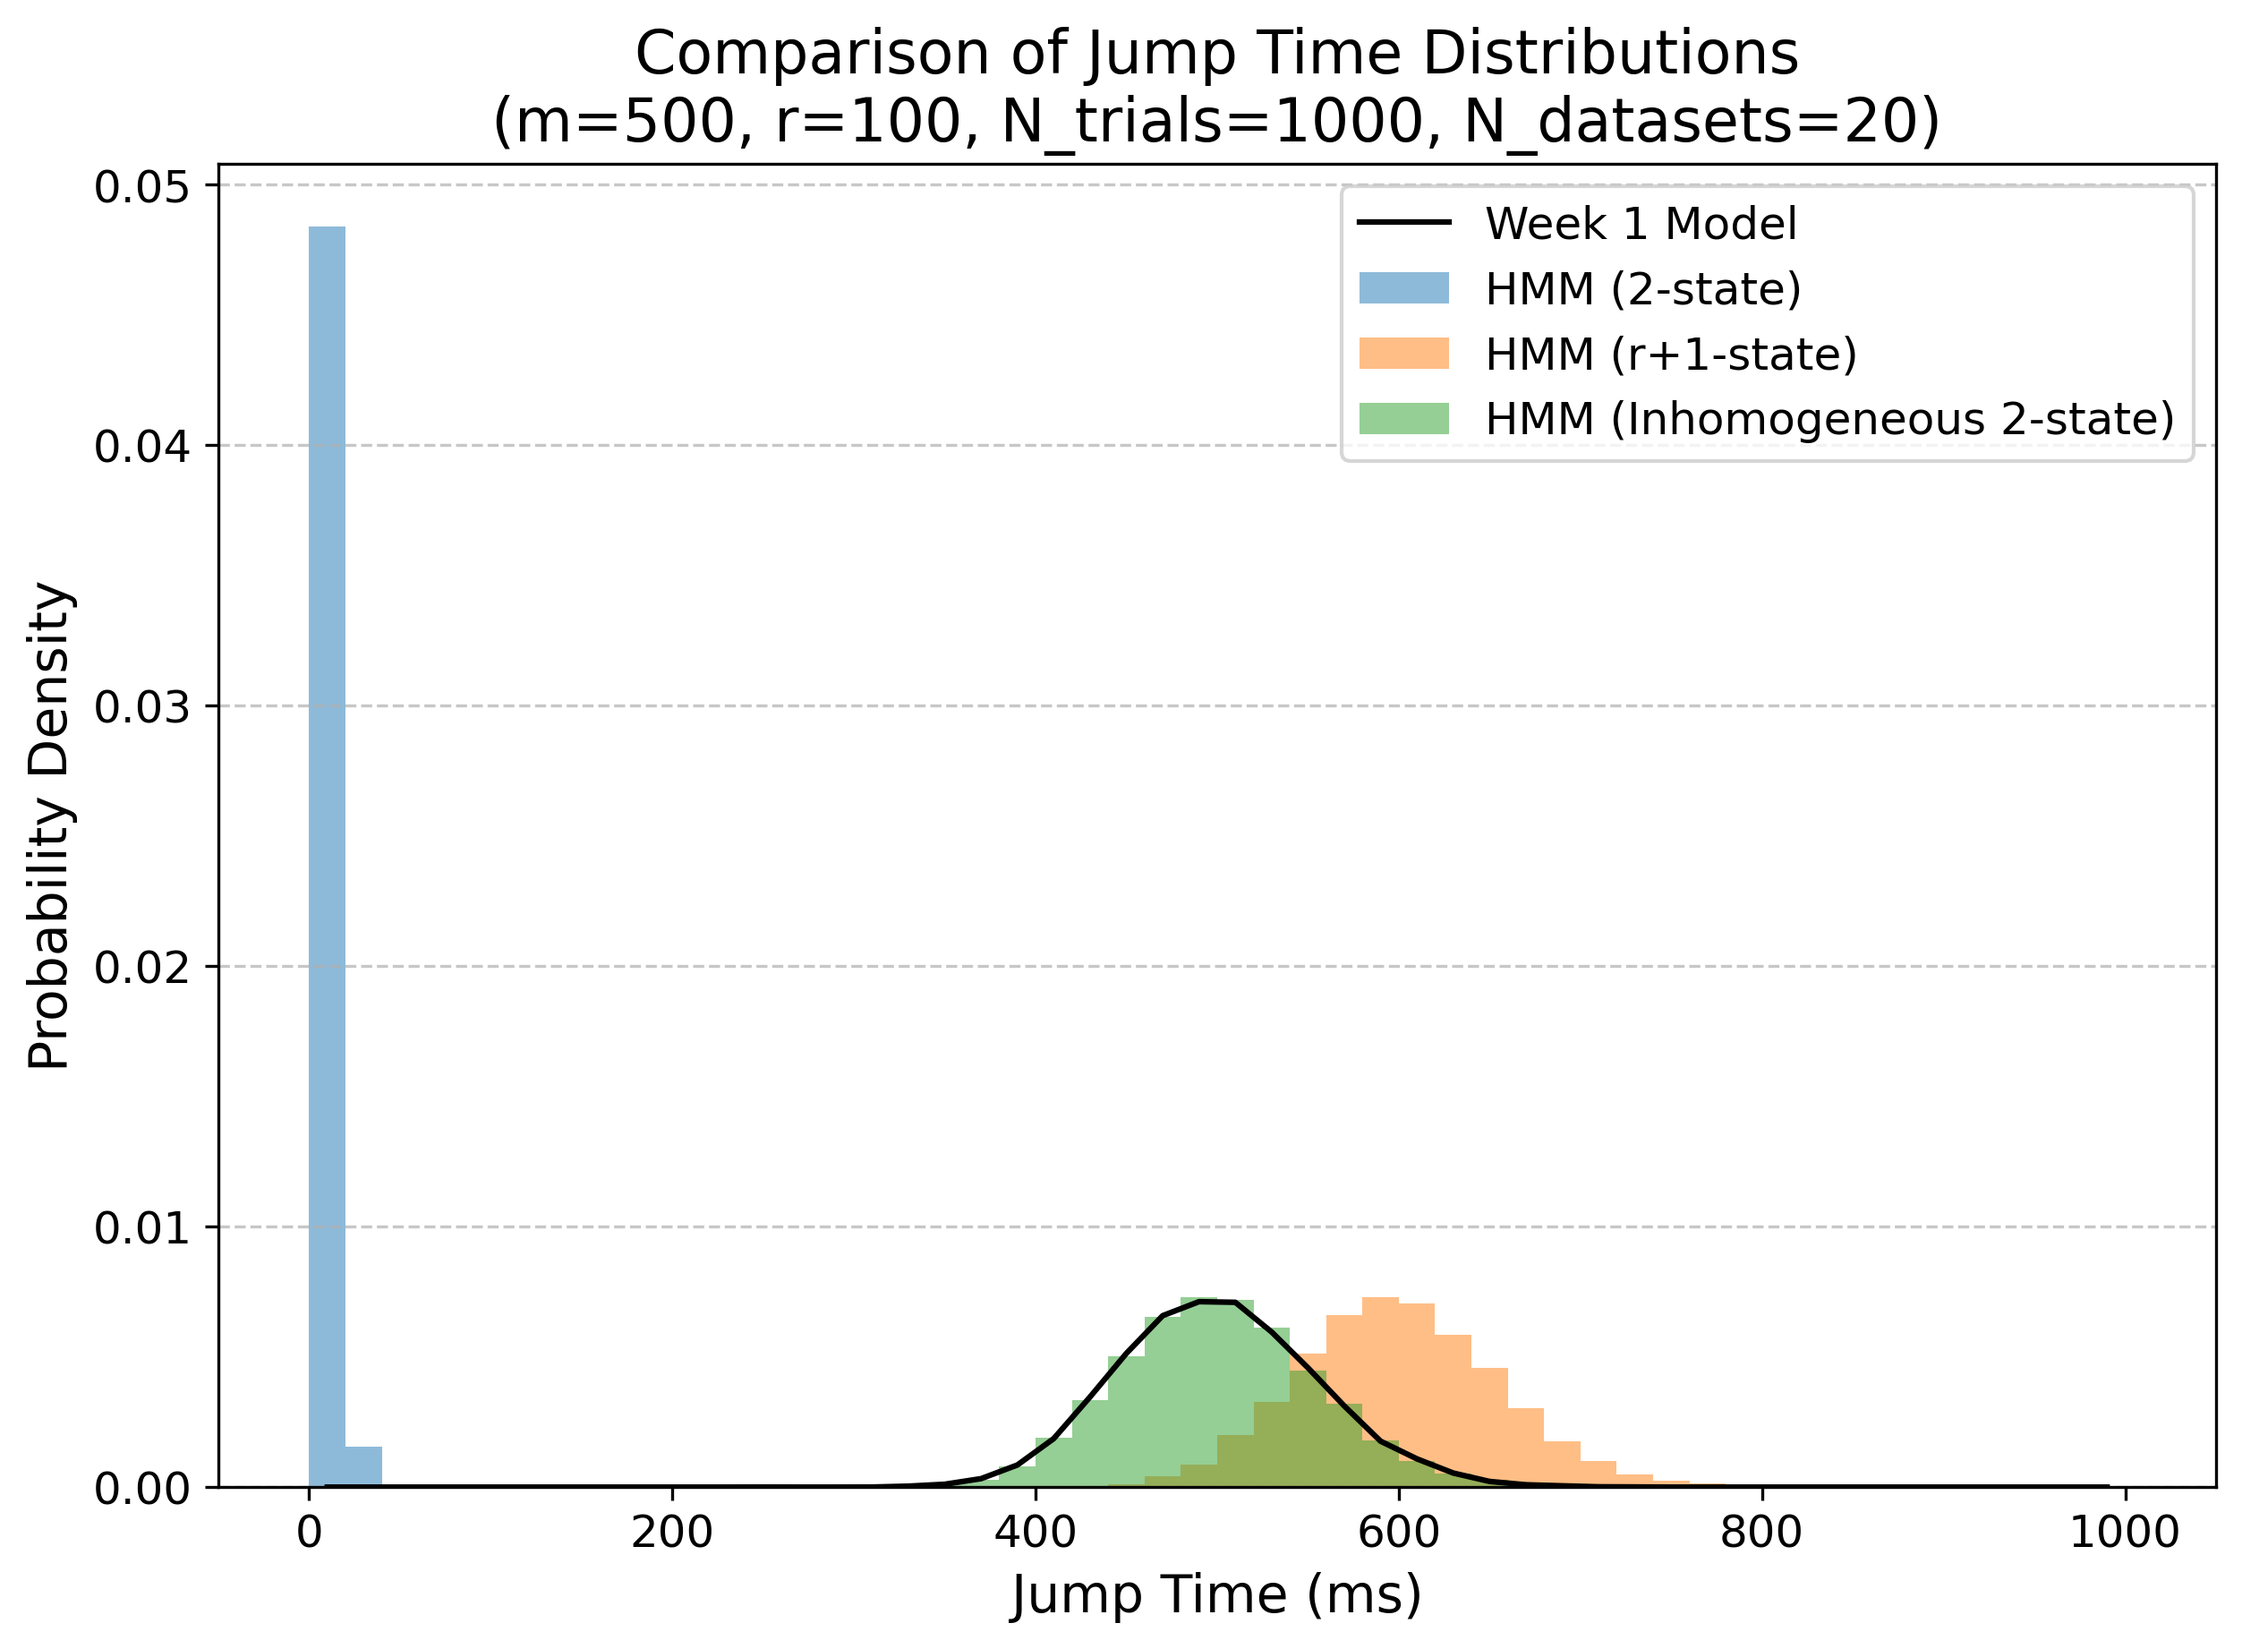
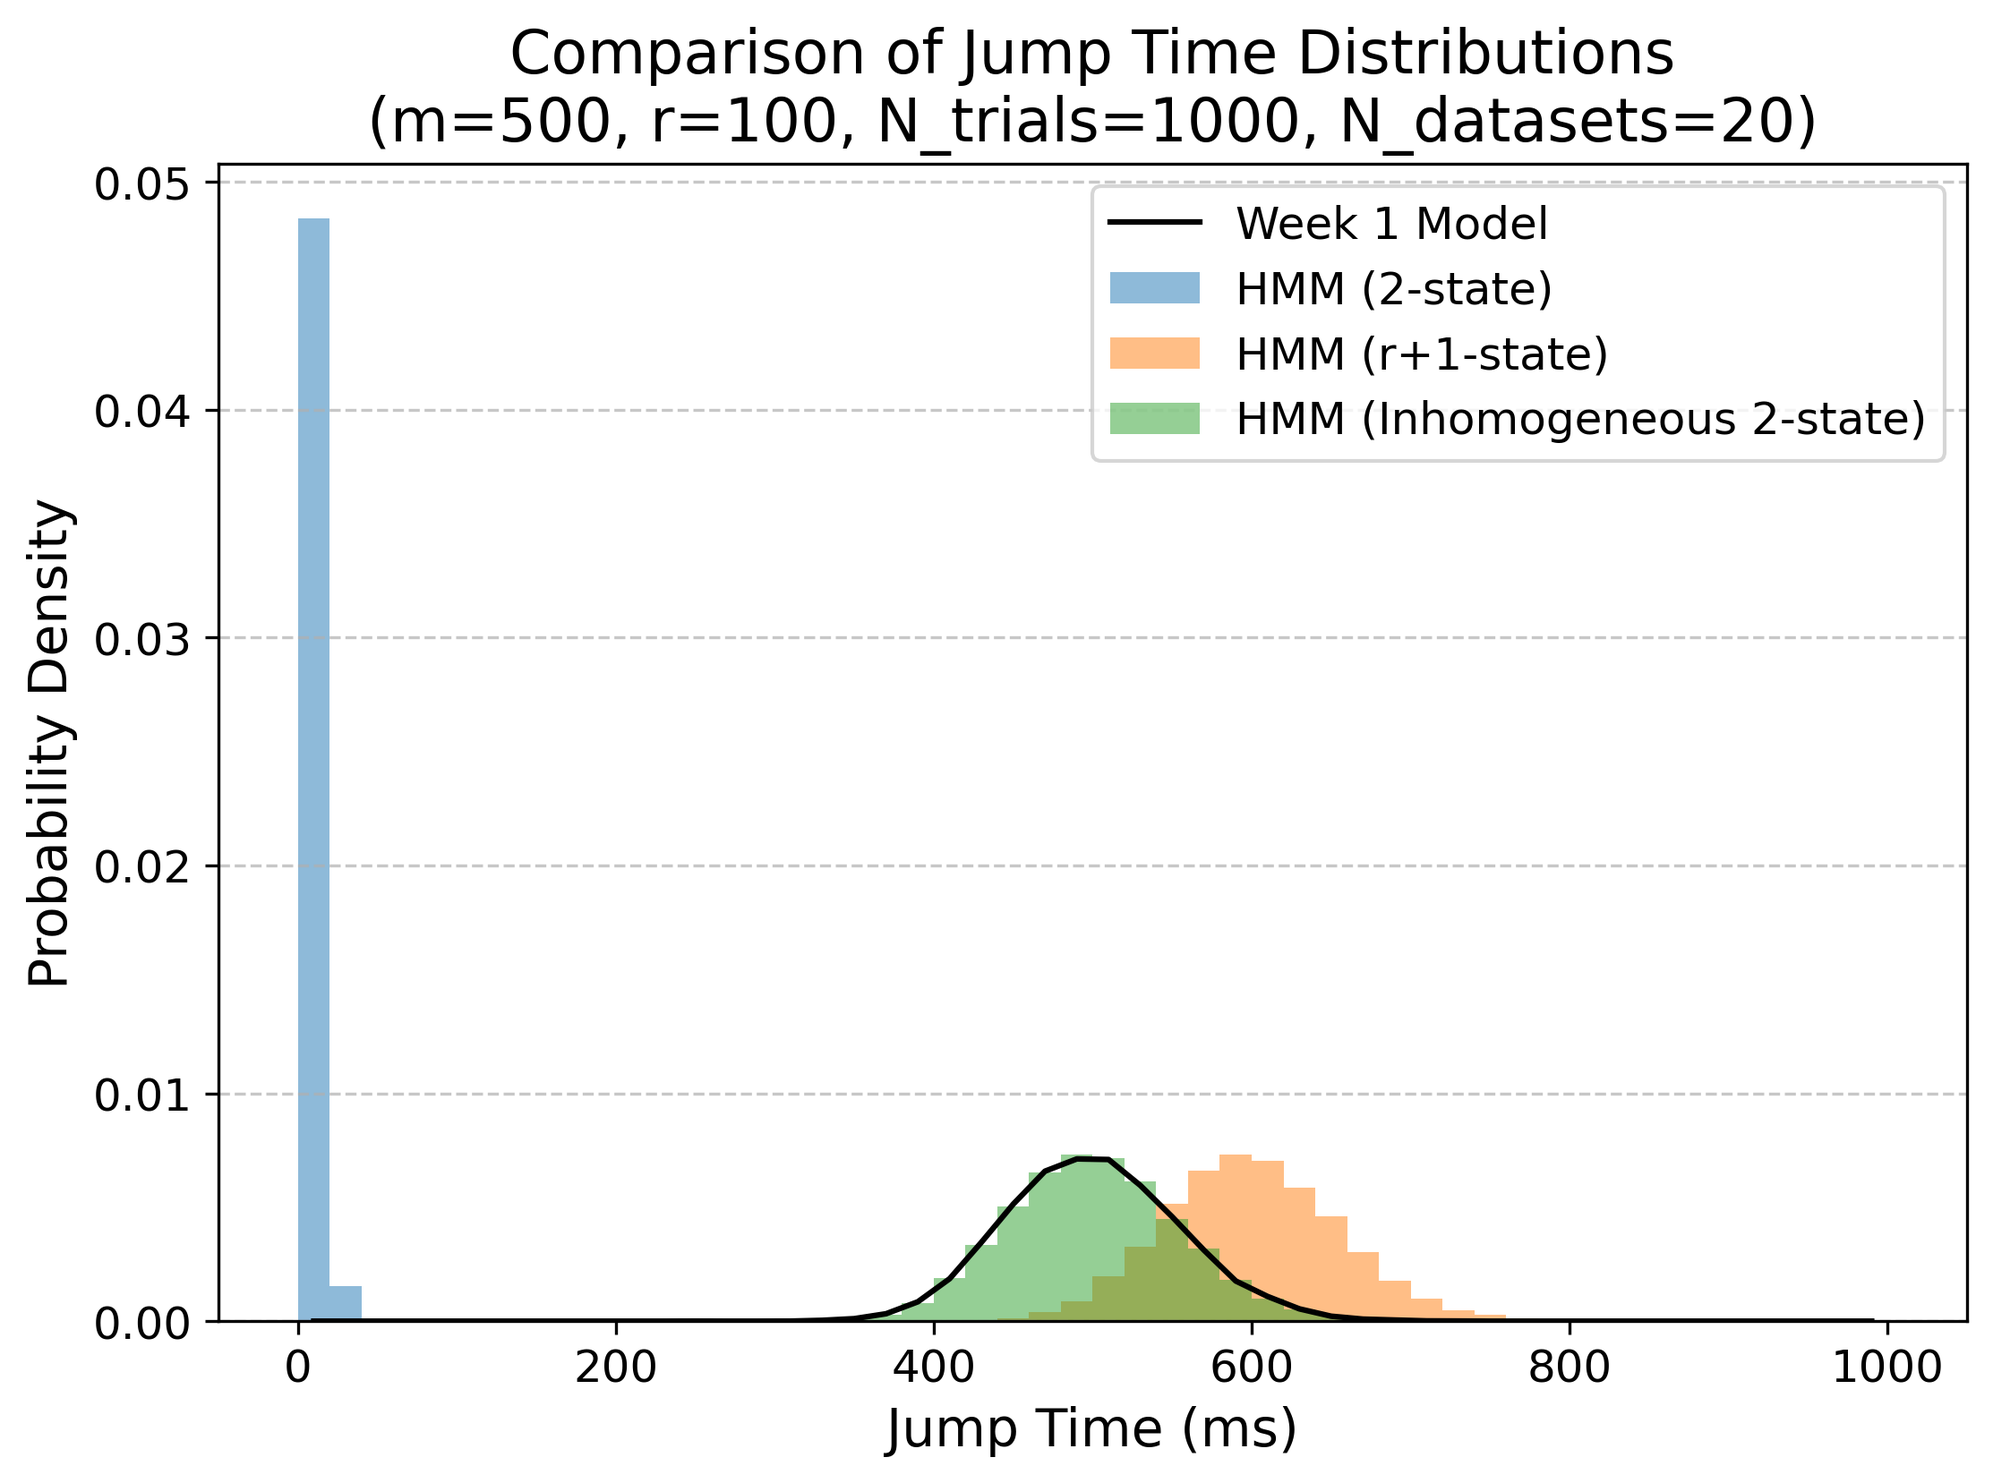
add 2.3 plot maker

Changed region(s): [[0.0, 0.0, 0.9919, 0.9849]]

diff --git a/2_3_plot_maker.py b/2_3_plot_maker.py
@@ -1,0 +1,50 @@
+import numpy as np
+import models
+import scipy
+import inference
+from models_hmm import RampModelHMM
+import os
+import matplotlib.pyplot as plt
+
+import task_2_3
+
+
+num_trials = 600
+num_samples = 15 # on the grid
+K = 50
+save_filename = "./results/CE_15x0x15rh.npy" # TODO
+
+    # TODO
+T = 100
+ms = np.linspace(T * 0.1, T * 0.75, num_samples)
+rs = np.rint(np.linspace(0, 20, num_samples+1))[1:]
+betas = np.linspace(0, 4, num_samples)
+sigmas = np.linspace(0, 4, num_samples)
+x0s = np.linspace(0.2, 1, num_samples)
+Rhs = np.linspace(0, 500, num_samples)
+
+# TODO changeme
+ivar1 = x0s # x-axis
+ivar2 = Rhs
+
+print("loading " + save_filename)
+CE_mat = np.load(save_filename)
+
+
+
+iv1_grid, iv2_grid = np.meshgrid(ivar1, ivar2, indexing='ij')
+iv1_flat = iv1_grid.flatten()
+iv2_flat = iv2_grid.flatten()
+CE_flat = CE_mat.flatten()
+
+os.makedirs('plots', exist_ok=True)
+
+
+plt.figure(figsize=(8 * 0.6, 6 * 0.6))
+contour = plt.tricontourf(iv1_flat, iv2_flat, CE_flat, levels=20, cmap='viridis')
+plt.colorbar(contour, label='Cross-Entropy (CE)')
+plt.xlabel('x0') # TODO
+plt.ylabel('Rh') # TODO
+plt.title(r'Ramp: CE, varying $x_0, Rh$') # TODO
+plt.savefig('plots/ramp_x0Rh_smol.png')
+plt.show()

diff --git a/task_2_2_.py b/task_2_2_.py
@@ -86,7 +86,7 @@ def compare_jump_time_histograms(m, r, n_trials, n_datasets, T):
                 pickle.dump(avg_hist, f)
             print(f"  Saved to cache: {cache_filename}")
 
-    plt.figure(figsize=(12 * 0.8, 8 * 0.8))
+    plt.figure(figsize=(12 * 0.7, 8 * 0.7))
     
     for name, avg_hist in all_avg_hists.items():
         if models_to_compare[name].get('plot_type') == "line":
